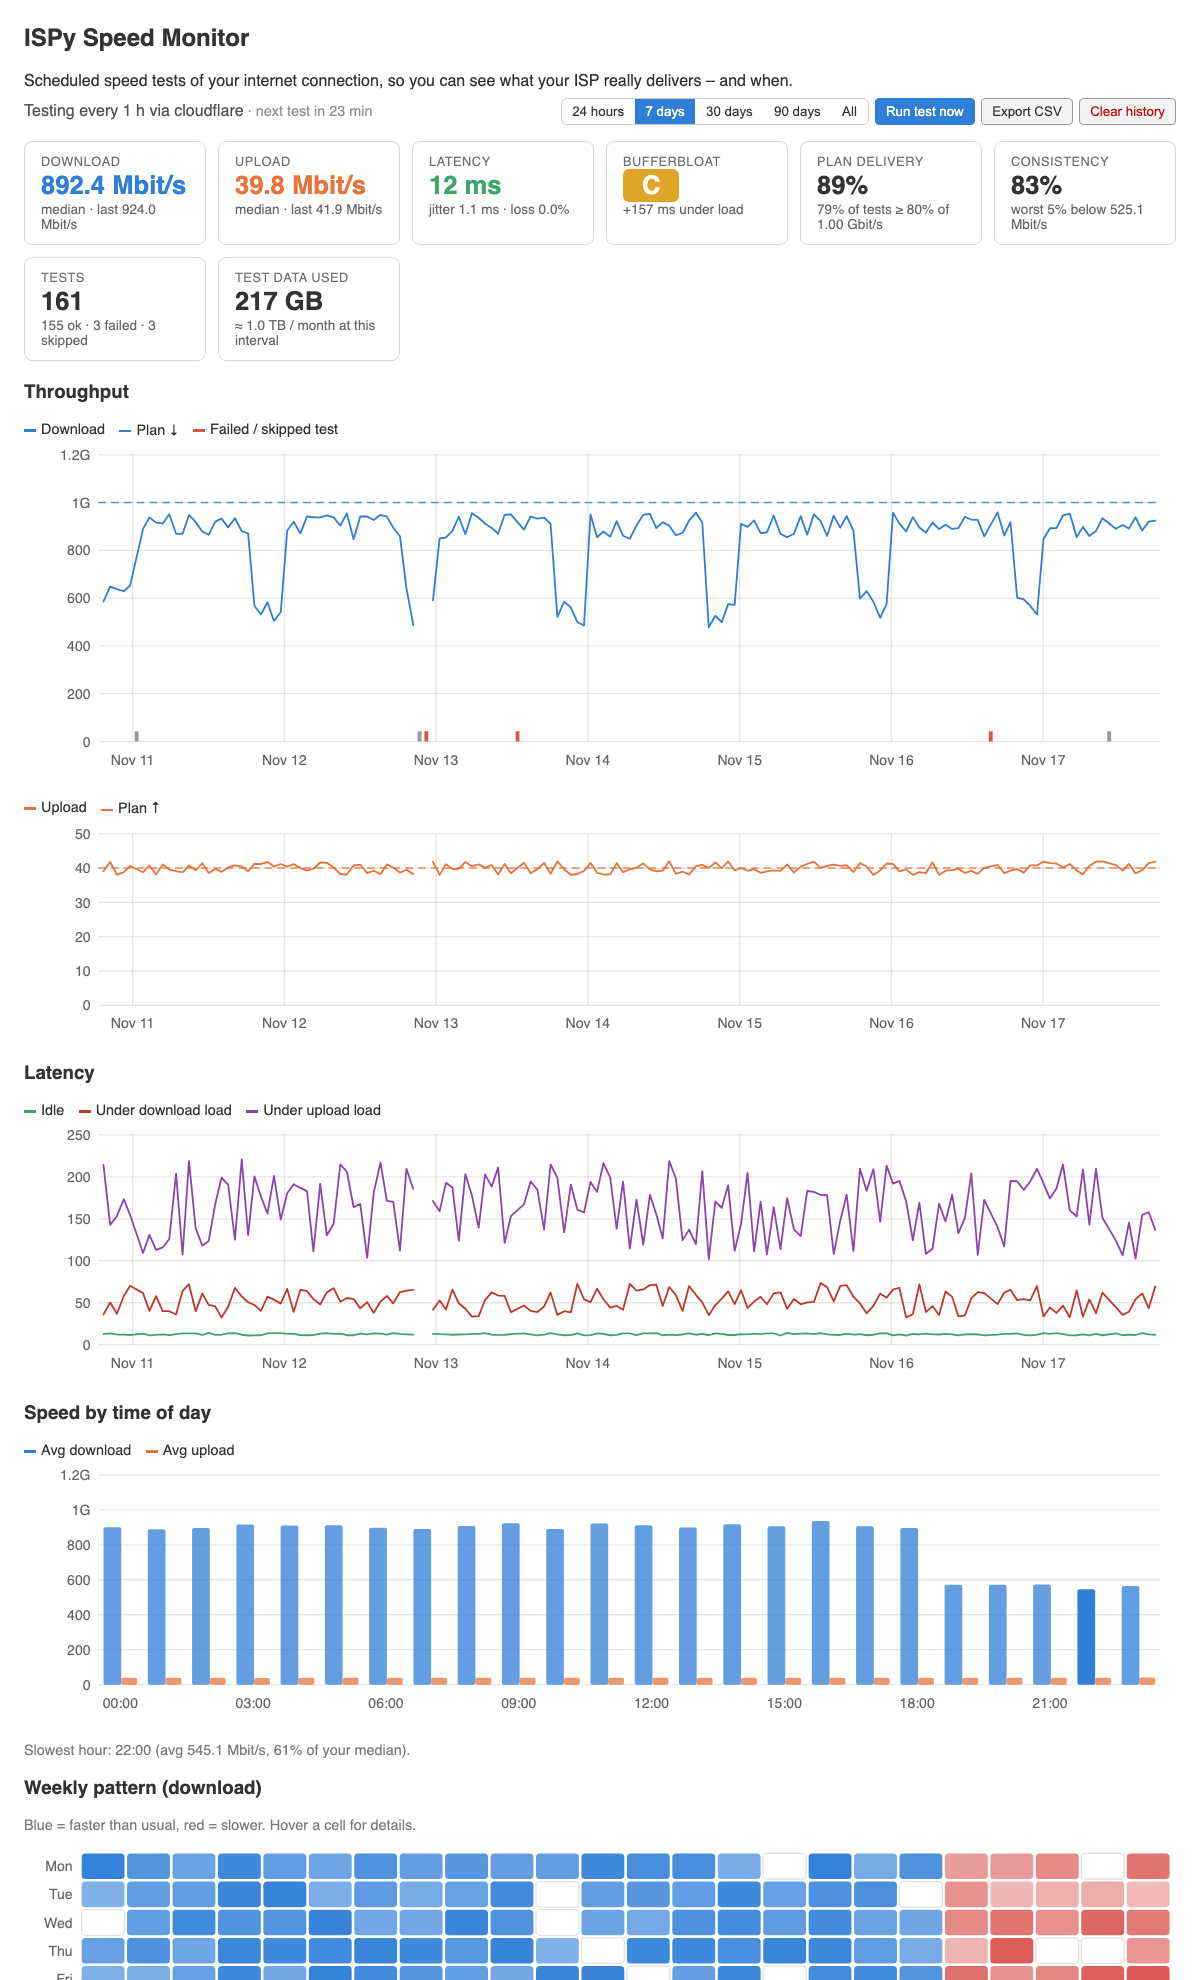
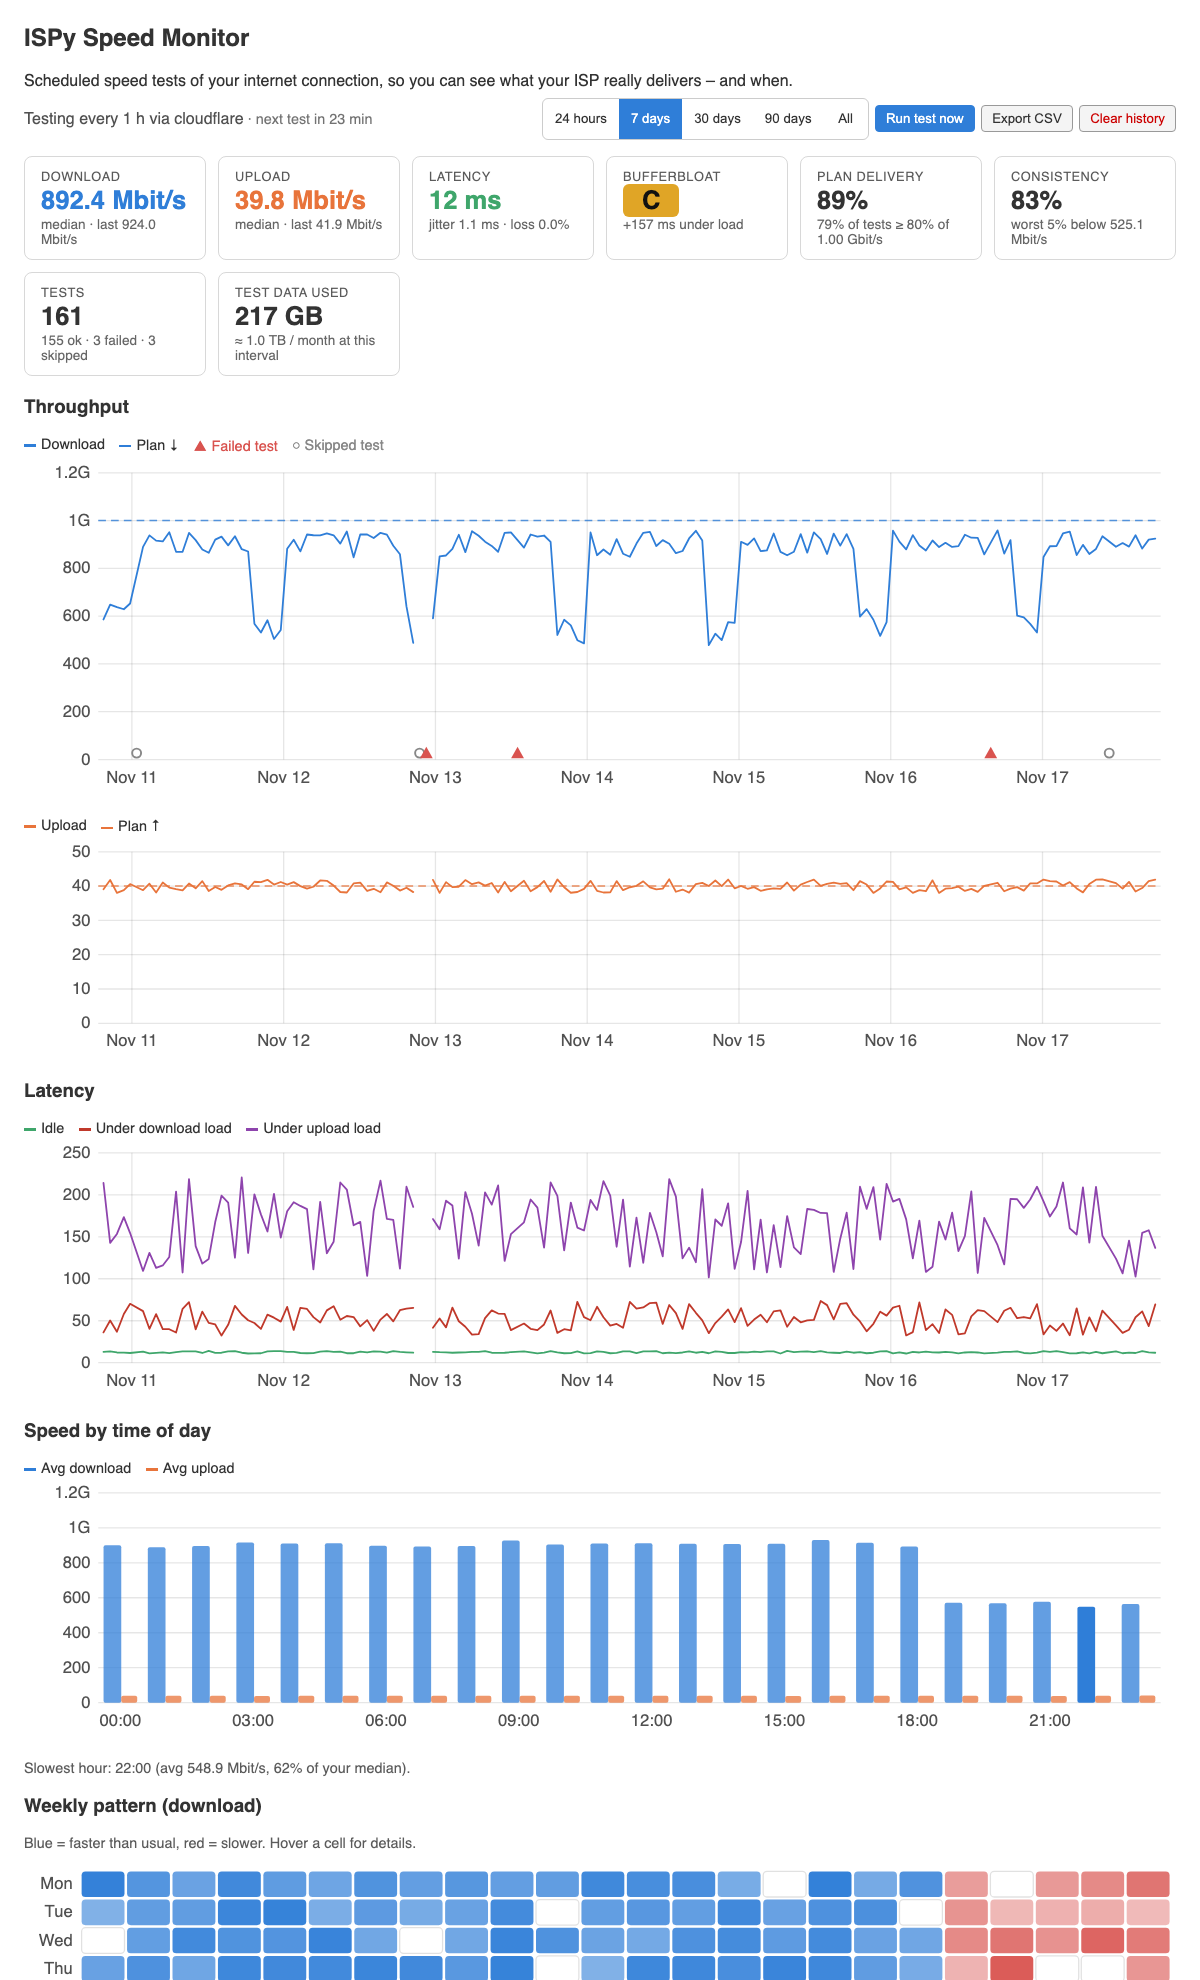
Dashboard accessibility and UX pass
- charts are keyboard-focusable: arrows/PgUp/PgDn/Home/End step through
  tests with the tooltip, announced via a polite live region
- descriptive aria-labels summarising each chart; heatmap gets a visible
  slowest/fastest text summary instead of colour-and-hover only
- failed vs skipped tests use distinct shapes (triangle / hollow circle),
  not just red vs grey
- bufferbloat grade badge uses dark text (was ~2.2:1 white on yellow)
- range selector: aria-pressed, group label, 40px+ touch targets,
  visible focus ring
- run button shows "Testing…" while busy; status line is a live region
- larger chart labels and less-faded secondary text

diff --git a/luci-app-ispy/htdocs/luci-static/resources/view/ispy/overview.js b/luci-app-ispy/htdocs/luci-static/resources/view/ispy/overview.js
@@ -45,17 +45,19 @@ var CSS = [
 	'.ispy-bar .ispy-info{opacity:.85}',
 	'.ispy-bar .ispy-actions{display:flex;flex-wrap:wrap;gap:.4em;align-items:center}',
 	'.ispy-ranges{display:inline-flex;border:1px solid rgba(127,127,127,.4);border-radius:6px;overflow:hidden}',
-	'.ispy-ranges button{border:0;border-radius:0;margin:0;padding:.35em .8em;background:transparent;color:inherit;cursor:pointer}',
+	'.ispy-ranges button{border:0;border-radius:0;margin:0;padding:.35em .9em;min-height:40px;min-width:44px;background:transparent;color:inherit;cursor:pointer}',
+	'.ispy-ranges button:focus-visible,.ispy-chart svg:focus-visible{outline:2px solid #2f7ed8;outline-offset:2px}',
 	'.ispy-ranges button.active{background:#2f7ed8;color:#fff}',
 	'.ispy-cards{display:grid;grid-template-columns:repeat(auto-fit,minmax(170px,1fr));gap:.75em;margin-bottom:1.25em}',
 	'.ispy-card{border:1px solid rgba(127,127,127,.3);border-radius:8px;padding:.75em 1em;min-width:0}',
-	'.ispy-card .k{font-size:.8em;text-transform:uppercase;letter-spacing:.04em;opacity:.7}',
+	'.ispy-card .k{font-size:.8em;text-transform:uppercase;letter-spacing:.04em;opacity:.8}',
 	'.ispy-card .v{font-size:1.6em;font-weight:600;line-height:1.3;white-space:nowrap}',
 	'.ispy-card .s{font-size:.85em;opacity:.75}',
-	'.ispy-grade{display:inline-block;min-width:1.6em;text-align:center;border-radius:6px;color:#fff;padding:0 .3em}',
+	'.ispy-grade{display:inline-block;min-width:1.6em;text-align:center;border-radius:6px;color:#111;padding:0 .3em}',
 	'.ispy-chart{position:relative;margin:.25em 0 1.5em}',
 	'.ispy-chart svg{width:100%;height:auto;display:block;overflow:visible}',
-	'.ispy-chart text{fill:currentColor;font-size:11px;opacity:.75}',
+	'.ispy-chart text{fill:currentColor;font-size:13px;opacity:.85}',
+	'.ispy-chart svg:focus{outline:none}',
 	'.ispy-chart .grid{stroke:currentColor;stroke-opacity:.12}',
 	'.ispy-legend{display:flex;flex-wrap:wrap;gap:1em;font-size:.9em;margin:.2em 0 .3em}',
 	'.ispy-legend i{display:inline-block;width:12px;height:3px;margin-right:.35em;vertical-align:middle}',
@@ -63,7 +65,8 @@ var CSS = [
 	'.ispy-tip b{font-weight:600}',
 		'.ispy-empty{padding:2em;text-align:center;opacity:.7;border:1px dashed rgba(127,127,127,.4);border-radius:8px}',
 	'.ispy-ok{color:#3fa66b}.ispy-err{color:#d9534f}.ispy-skip{opacity:.6}',
-	'.ispy-muted{opacity:.65;font-size:.9em}',
+	'.ispy-muted{opacity:.8;font-size:.9em}',
+	'.ispy-sr{position:absolute;width:1px;height:1px;overflow:hidden;clip:rect(0 0 0 0);white-space:nowrap}',
 	'.ispy-scroll{overflow-x:auto;max-width:100%}'
 ].join('\n');
 
@@ -166,6 +169,8 @@ function S(tag, attrs, children) {
 
 function legend(items) {
 	return E('div', { 'class': 'ispy-legend' }, items.map(function(it) {
+		if (it.text)
+			return E('span', { 'style': 'color:' + it.color }, it.label);
 		return E('span', {}, [
 			E('i', { 'style': 'background:%s%s'.format(it.color, it.dash ? ';height:0;border-top:2px dashed ' + it.color : '') }),
 			it.label
@@ -201,7 +206,8 @@ function lineChart(opts) {
 	var X = function(t) { return ml + (t - t0) / (t1 - t0) * pw; };
 	var Y = function(v) { return mt + ph - v / ymax * ph; };
 
-	var svg = S('svg', { viewBox: '0 0 %d %d'.format(W, H), role: 'img' });
+	var svg = S('svg', { viewBox: '0 0 %d %d'.format(W, H), role: 'img', tabindex: rows.length ? 0 : null,
+		'aria-label': opts.label ? opts.label + '. ' + _('Use the left and right arrow keys to step through tests.') : null });
 
 	/* y grid */
 	for (var y = 0; y <= ymax + 1e-9; y += ystep) {
@@ -257,9 +263,10 @@ function lineChart(opts) {
 	/* failed / skipped tests as ticks on the x axis */
 	if (opts.marks)
 		rows.forEach(function(r) {
-			if (r.status !== 'ok')
-				svg.appendChild(S('rect', { x: X(r.ts) - 1.5, y: mt + ph - 8, width: 3, height: 8,
-					fill: r.status === 'skipped' ? '#999' : C.bad }));
+			if (r.status === 'error')        /* failed: red triangle */
+				svg.appendChild(S('path', { d: 'M%f,%fl5,9h-10z'.format(X(r.ts), mt + ph - 10), fill: C.bad }));
+			else if (r.status === 'skipped') /* skipped: hollow grey circle */
+				svg.appendChild(S('circle', { cx: X(r.ts), cy: mt + ph - 5, r: 3.5, fill: 'none', stroke: '#888', 'stroke-width': 1.5 }));
 		});
 
 	/* hover */
@@ -279,6 +286,9 @@ function lineChart(opts) {
 		dots.forEach(function(d) { d.setAttribute('visibility', 'hidden'); });
 	}
 
+	var current = -1;
+	var live = E('div', { 'class': 'ispy-sr', 'aria-live': 'polite' });
+
 	function show(ev) {
 		if (!rows.length) return;
 		var rect = svg.getBoundingClientRect();
@@ -286,7 +296,13 @@ function lineChart(opts) {
 		var t = t0 + ((cx - rect.left) * W / rect.width - ml) / pw * (t1 - t0);
 		var lo = 0, hi = rows.length - 1;
 		while (hi - lo > 1) { var mid = (lo + hi) >> 1; if (rows[mid].ts < t) lo = mid; else hi = mid; }
-		var r = Math.abs(rows[lo].ts - t) < Math.abs(rows[hi].ts - t) ? rows[lo] : rows[hi];
+		showIndex(Math.abs(rows[lo].ts - t) < Math.abs(rows[hi].ts - t) ? lo : hi, false);
+	}
+
+	function showIndex(idx, announce) {
+		current = idx;
+		var r = rows[idx];
+		var rect = svg.getBoundingClientRect();
 		var x = X(r.ts);
 		cursor.setAttribute('x1', x); cursor.setAttribute('x2', x);
 		cursor.setAttribute('visibility', 'visible');
@@ -307,6 +323,8 @@ function lineChart(opts) {
 			lines.push(E('div', { 'style': 'opacity:.7' }, r.server));
 		dom.content(tip, lines);
 		tip.style.display = 'block';
+		if (announce)
+			live.textContent = lines.map(function(n) { return n.textContent.replace('● ', ''); }).join('. ');
 		var px = x / W * rect.width;
 		if (px > rect.width / 2) { tip.style.left = ''; tip.style.right = (rect.width - px + 12) + 'px'; }
 		else { tip.style.right = ''; tip.style.left = (px + 12) + 'px'; }
@@ -316,6 +334,25 @@ function lineChart(opts) {
 	overlay.addEventListener('touchstart', show, { passive: true });
 	overlay.addEventListener('touchmove', show, { passive: true });
 	overlay.addEventListener('mouseleave', hide);
+
+	/* keyboard: arrows step through tests, PgUp/PgDn by 24, Home/End, Esc hides */
+	svg.addEventListener('keydown', function(ev) {
+		var n = rows.length, i = current < 0 ? n - 1 : current, step = current < 0 ? 0 : 1;
+		switch (ev.key) {
+		case 'ArrowLeft': i = Math.max(0, i - step); break;
+		case 'ArrowRight': i = Math.min(n - 1, i + step); break;
+		case 'PageUp': i = Math.max(0, i - 24); break;
+		case 'PageDown': i = Math.min(n - 1, i + 24); break;
+		case 'Home': i = 0; break;
+		case 'End': i = n - 1; break;
+		case 'Escape': hide(); current = -1; return;
+		default: return;
+		}
+		ev.preventDefault();
+		showIndex(i, true);
+	});
+	svg.addEventListener('blur', function() { hide(); current = -1; });
+	wrap.appendChild(live);
 
 	return wrap;
 }
@@ -395,7 +432,15 @@ function heatmap(rows) {
 	});
 	for (var h2 = 0; h2 < 24; h2 += 3)
 		svg.appendChild(S('text', { x: ml + h2 * cw + cw / 2, y: H - 6, 'text-anchor': 'middle' }, [ '%02d'.format(h2) ]));
-	return E('div', { 'class': 'ispy-chart' }, [ svg ]);
+	var loI = avgs.indexOf(lo), hiI = avgs.indexOf(hi);
+	var at = function(i) { return '%s %02d:00'.format(DAYS[Math.floor(i / 24)], i % 24); };
+	var summary = _('Slowest slot: %s (%s) · fastest: %s (%s).').format(at(loI), fmtMbps(lo), at(hiI), fmtMbps(hi));
+	svg.setAttribute('role', 'img');
+	svg.setAttribute('aria-label', _('Download speed by weekday and hour.') + ' ' + summary);
+	return E('div', {}, [
+		E('div', { 'class': 'ispy-chart' }, [ svg ]),
+		E('p', { 'class': 'ispy-muted' }, summary)
+	]);
 }
 
 function axisMbps(v) {
@@ -434,9 +479,9 @@ return view.extend({
 		this.status = data[0] || {};
 		this.wasRunning = !!this.status.running;
 
-		this.statusNode = E('div', { 'class': 'ispy-info' });
+		this.statusNode = E('div', { 'class': 'ispy-info', 'role': 'status', 'aria-live': 'polite' });
 		this.runBtn = E('button', { 'class': 'cbi-button cbi-button-action', 'click': ui.createHandlerFn(this, 'handleRun') }, _('Run test now'));
-		this.rangeNode = E('div', { 'class': 'ispy-ranges' });
+		this.rangeNode = E('div', { 'class': 'ispy-ranges', 'role': 'group', 'aria-label': _('Time range') });
 		this.body = E('div');
 
 		var root = E('div', { 'class': 'cbi-map' }, [
@@ -467,6 +512,7 @@ return view.extend({
 		dom.content(this.rangeNode, RANGES.map(L.bind(function(r) {
 			return E('button', {
 				'class': r[0] === this.range ? 'active' : '',
+				'aria-pressed': r[0] === this.range ? 'true' : 'false',
 				'click': ui.createHandlerFn(this, 'setRange', r[0])
 			}, r[1]);
 		}, this)));
@@ -498,6 +544,7 @@ return view.extend({
 		}
 		dom.content(this.statusNode, parts);
 		this.runBtn.disabled = !!st.running;
+		this.runBtn.textContent = st.running ? _('Testing…') : _('Run test now');
 	},
 
 	pollStatus: function() {
@@ -613,17 +660,20 @@ return view.extend({
 		var sUp = { label: _('Upload'), color: C.up, get: function(r) { return r.up } };
 		var tput = lineChart({
 			rows: rows, t0: t0, t1: t1, marks: true, height: 260,
+			label: sd ? _('Download speed over time: median %s, range %s to %s').format(fmtMbps(sd.median), fmtMbps(sd.min), fmtMbps(sd.max)) : _('Download speed over time'),
 			refs: split ? refs.slice(0, planDown ? 1 : 0) : refs,
 			fmt: fmtMbps, axisFmt: axisMbps,
 			series: split ? [ sDown ] : [ sDown, sUp ]
 		});
 		var upChart = split ? lineChart({
 			rows: rows, t0: t0, t1: t1, height: 170,
+			label: su ? _('Upload speed over time: median %s, range %s to %s').format(fmtMbps(su.median), fmtMbps(su.min), fmtMbps(su.max)) : _('Upload speed over time'),
 			refs: planUp ? [ { value: planUp, color: C.up } ] : [],
 			fmt: fmtMbps, axisFmt: axisMbps, series: [ sUp ]
 		}) : null;
 		var lat = lineChart({
 			rows: rows, t0: t0, t1: t1, height: 200,
+			label: sp ? _('Latency over time: idle median %s, under download load %s, under upload load %s').format(fmtMs(sp.median), fmtMs(sld && sld.median), fmtMs(slu && slu.median)) : _('Latency over time'),
 			fmt: fmtMs, axisFmt: function(v) { return Math.round(v) + '' },
 			series: [
 				{ label: _('Idle'), color: C.ping, get: function(r) { return r.ping } },
@@ -636,7 +686,8 @@ return view.extend({
 		if (!split) tputLegend.push({ label: _('Upload'), color: C.up });
 		if (planDown) tputLegend.push({ label: _('Plan ↓'), color: C.down, dash: true });
 		if (planUp && !split) tputLegend.push({ label: _('Plan ↑'), color: C.up, dash: true });
-		if (failed || skipped) tputLegend.push({ label: _('Failed / skipped test'), color: C.bad });
+		if (failed) tputLegend.push({ label: '▲ ' + _('Failed test'), color: C.bad, text: true });
+		if (skipped) tputLegend.push({ label: '○ ' + _('Skipped test'), color: '#888', text: true });
 
 		var hours = hourChart(ok);
 		var spanDays = (ok.length ? ok[ok.length - 1].ts - ok[0].ts : 0) / 86400;
